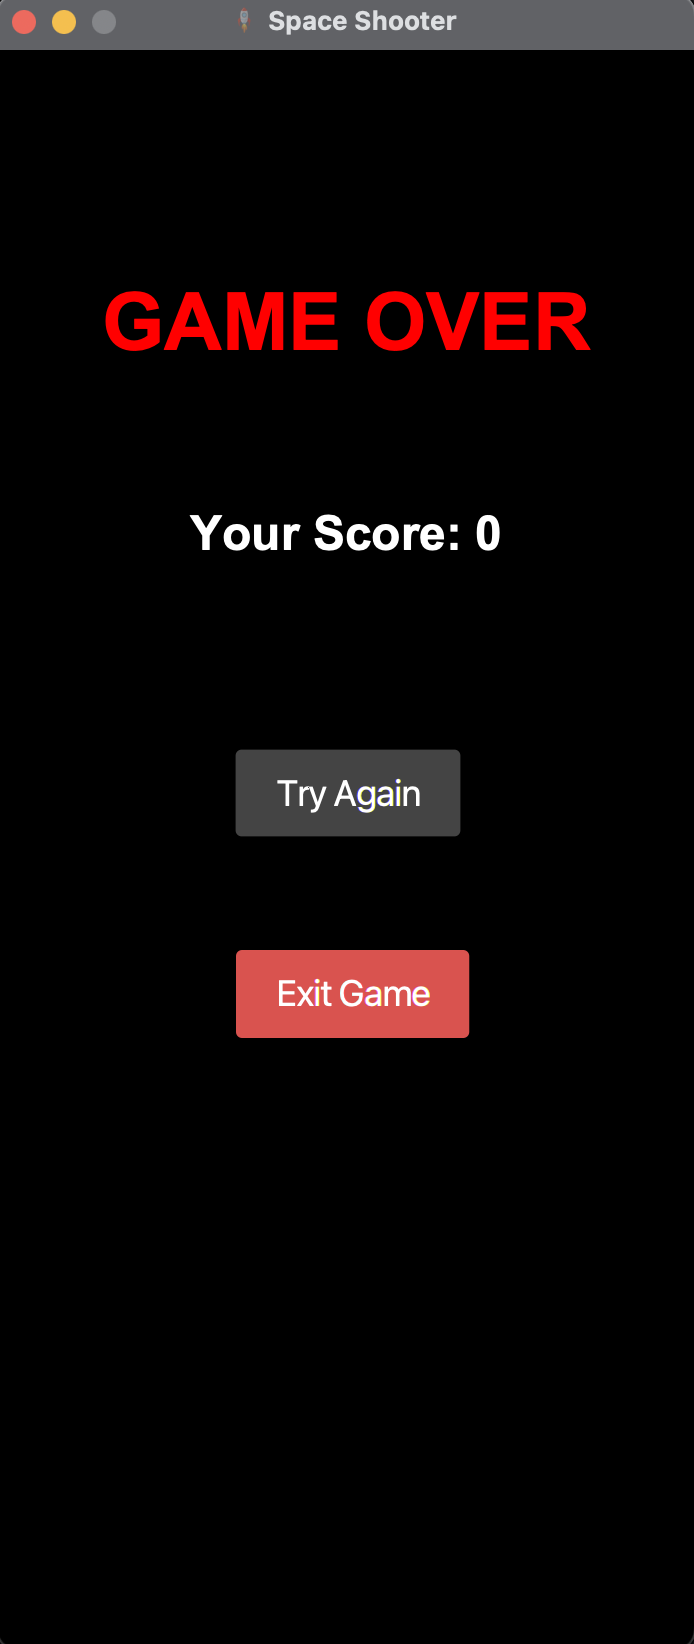
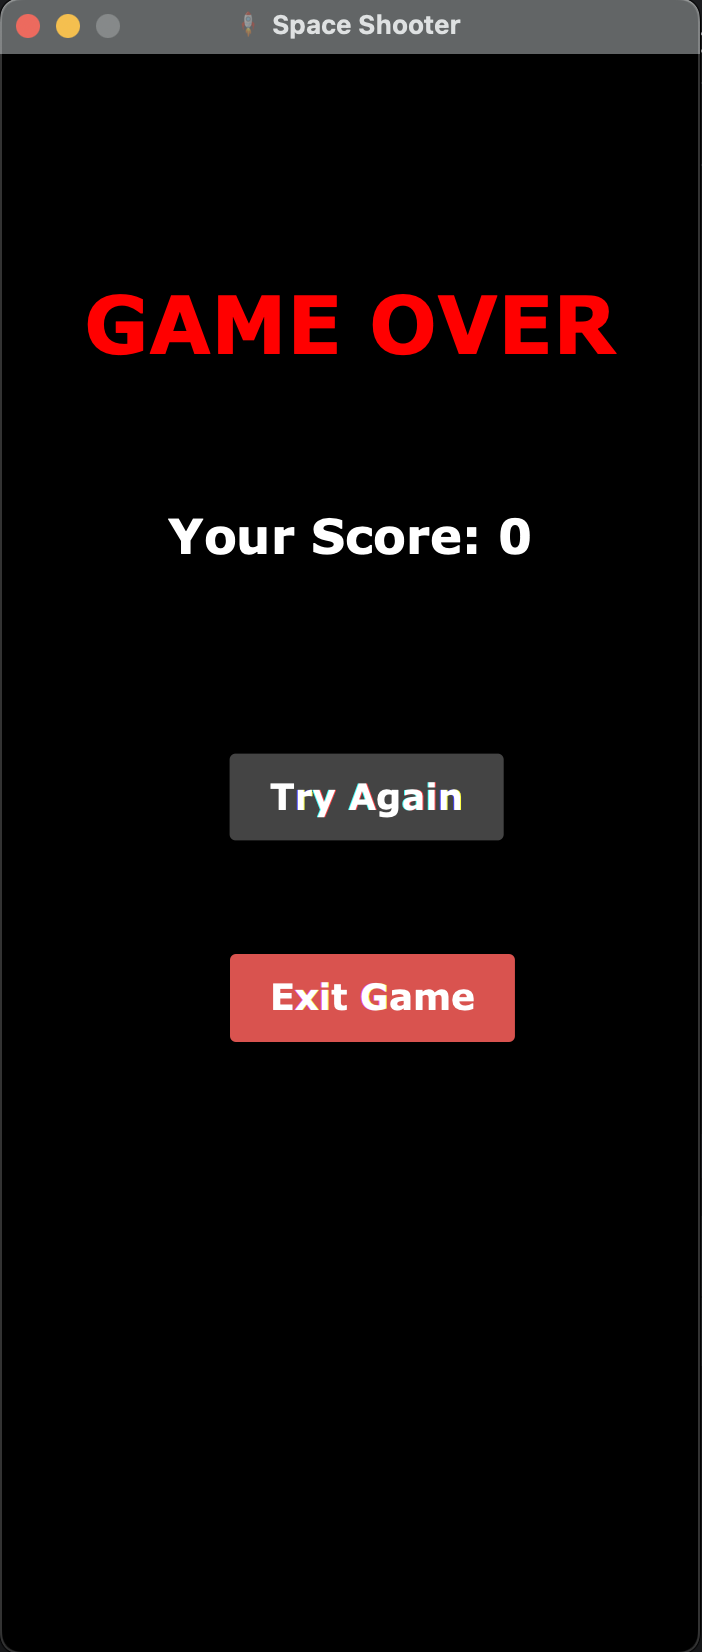
Final: Game working

diff --git a/src/main/java/com/example/spaceshootergamejavafx/SpaceShooter.java b/src/main/java/com/example/spaceshootergamejavafx/SpaceShooter.java
@@ -108,14 +108,16 @@ public class SpaceShooter extends Application {
     Canvas canvas = new Canvas(WIDTH, HEIGHT);
     scoreLabel.setTranslateX(10);
     scoreLabel.setTranslateY(10);
-    scoreLabel.setTextFill(Color.BLACK);
-    scoreLabel.setFont(Font.font("Arial", FontWeight.BOLD, 18));
+    scoreLabel.setTextFill(Color.WHITE);
+    scoreLabel.setFont(Font.font("Verdana", FontWeight.BOLD, 18));
 
+    root.setStyle("-fx-background-color: black;");
     root.getChildren().addAll(canvas, scoreLabel, lifeLabel);
+
     lifeLabel.setTranslateX(10);
     lifeLabel.setTranslateY(40);
-    lifeLabel.setTextFill(Color.BLACK);
-    lifeLabel.setFont(Font.font("Arial", FontWeight.BOLD, 18));
+    lifeLabel.setTextFill(Color.WHITE);
+    lifeLabel.setFont(Font.font("Verdana", FontWeight.BOLD, 18));
 
     GraphicsContext gc = canvas.getGraphicsContext2D();
     gameObjects.add(player);
@@ -142,6 +144,8 @@ public class SpaceShooter extends Application {
               this.start();
               reset = false;
             }
+
+            gc.setFill(Color.BLACK);
             gc.clearRect(0, 0, WIDTH, HEIGHT);
 
             if (now - lastEnemySpawned > 1_000_000_000) {
@@ -298,7 +302,7 @@ public class SpaceShooter extends Application {
 
     // Game Over Text
     Text gameOverText = new Text("GAME OVER");
-    gameOverText.setFont(Font.font("Arial", FontWeight.BOLD, 40));
+    gameOverText.setFont(Font.font("Verdana", FontWeight.BOLD, 40));
     gameOverText.setFill(Color.RED);
     gameOverText.setX((WIDTH - gameOverText.getLayoutBounds().getWidth()) / 2);
     gameOverText.setY(150);
@@ -309,7 +313,7 @@ public class SpaceShooter extends Application {
     }
 
     Text scoreText = new Text("Your Score: " + score);
-    scoreText.setFont(Font.font("Arial", FontWeight.BOLD, 24));
+    scoreText.setFont(Font.font("Verdana", FontWeight.BOLD, 24));
     scoreText.setFill(Color.WHITE);
     scoreText.setX((WIDTH - scoreText.getLayoutBounds().getWidth()) / 2);
     scoreText.setY(250);
@@ -318,22 +322,22 @@ public class SpaceShooter extends Application {
     Button tryAgainButton = new Button("Try Again");
     tryAgainButton.setStyle(
         "-fx-background-color: #444; -fx-text-fill: white; -fx-font-size: 18; "
-            + "-fx-font-weight: bold; -fx-padding: 10 20;");
+            + "-fx-font-weight: bold; -fx-padding: 10 20; -fx-font-family: 'Verdana';");
     tryAgainButton.setOnMouseEntered(
         event -> {
           tryAgainButton.setStyle(
               "-fx-background-color: white; -fx-text-fill: black; -fx-font-size: 18; "
-                  + "-fx-font-weight: bold; -fx-padding: 10 20;");
+                  + "-fx-font-weight: bold; -fx-padding: 10 20; -fx-font-family: 'Verdana';");
           tryAgainButton.setEffect(new Glow(0.5));
         });
     tryAgainButton.setOnMouseExited(
         event -> {
           tryAgainButton.setStyle(
               "-fx-background-color: #444; -fx-text-fill: white; -fx-font-size: 18; "
-                  + "-fx-font-weight: bold; -fx-padding: 10 20;");
+                  + "-fx-font-weight: bold; -fx-padding: 10 20; -fx-font-family: 'Verdana';");
           tryAgainButton.setEffect(null);
         });
-    tryAgainButton.setLayoutX(120);
+    tryAgainButton.setLayoutX(115);
     tryAgainButton.setLayoutY(350);
     tryAgainButton.setOnAction(event -> restartGame());
 
@@ -341,22 +345,22 @@ public class SpaceShooter extends Application {
     Button exitButton = new Button("Exit Game");
     exitButton.setStyle(
         "-fx-background-color: #d9534f; -fx-text-fill: white; -fx-font-size: 18; "
-            + "-fx-font-weight: bold; -fx-padding: 10 20;");
+            + "-fx-font-weight: bold; -fx-padding: 10 20; -fx-font-family: 'Verdana';");
     exitButton.setOnMouseEntered(
         event -> {
           exitButton.setStyle(
               "-fx-background-color: white; -fx-text-fill: red; -fx-font-size: 18; "
-                  + "-fx-font-weight: bold; -fx-padding: 10 20;");
+                  + "-fx-font-weight: bold; -fx-padding: 10 20; -fx-font-family: 'Verdana';");
           exitButton.setEffect(new Glow(0.5));
         });
     exitButton.setOnMouseExited(
         event -> {
           exitButton.setStyle(
               "-fx-background-color: #d9534f; -fx-text-fill: white; -fx-font-size: 18; "
-                  + "-fx-font-weight: bold; -fx-padding: 10 20;");
+                  + "-fx-font-weight: bold; -fx-padding: 10 20; -fx-font-family: 'Verdana';");
           exitButton.setEffect(null);
         });
-    exitButton.setLayoutX(120);
+    exitButton.setLayoutX(115);
     exitButton.setLayoutY(450);
     exitButton.setOnAction(event -> System.exit(0));
 
@@ -465,7 +469,7 @@ public class SpaceShooter extends Application {
     Pane menuPane = new Pane();
     menuPane.setStyle(
         "-fx-background-color: linear-gradient(to bottom, #1e3c72, #2a5298);"); // Gradient
-                                                                                // background
+    // background
 
     // Styled title
     Text welcomeText = new Text("Welcome to\nSpace Shooter!");
@@ -515,7 +519,8 @@ public class SpaceShooter extends Application {
             + "-fx-border-radius: 20;"
             + "-fx-background-radius: 20;"
             + "-fx-border-color: #ffffff;"
-            + "-fx-border-width: 2;");
+            + "-fx-border-width: 2;"
+            + "-fx-font-family: 'Verdana';");
     button.setOnMouseEntered(
         event -> {
           button.setStyle(
@@ -527,7 +532,8 @@ public class SpaceShooter extends Application {
                   + "-fx-border-radius: 20;"
                   + "-fx-background-radius: 20;"
                   + "-fx-border-color: yellow;"
-                  + "-fx-border-width: 2;");
+                  + "-fx-border-width: 2;"
+                  + "-fx-font-family: 'Verdana';");
           button.setEffect(new Glow(0.5));
         });
     button.setOnMouseExited(
@@ -541,7 +547,8 @@ public class SpaceShooter extends Application {
                   + "-fx-border-radius: 20;"
                   + "-fx-background-radius: 20;"
                   + "-fx-border-color: #ffffff;"
-                  + "-fx-border-width: 2;");
+                  + "-fx-border-width: 2;"
+                  + "-fx-font-family: 'Verdana';");
           button.setEffect(null);
         });
     return button;
@@ -573,7 +580,7 @@ public class SpaceShooter extends Application {
    */
   private void showTempMessage(String message, double x, double y, double duration) {
     Text tempMessage = new Text(message);
-    tempMessage.setFont(Font.font("Arial", FontWeight.BOLD, 18));
+    tempMessage.setFont(Font.font("Verdana", FontWeight.BOLD, 18));
     tempMessage.setFill(Color.RED);
     tempMessage.setX(x);
     tempMessage.setY(y);

diff --git a/README.md b/README.md
@@ -34,6 +34,12 @@ Space Shooter is a simple, lightweight but engaging JavaFX-based game where play
     <img src="img/gameplay.png" alt="Space Shooter Game Interface" width="60%"/>
 </p>
 
+### Instructions
+
+<p align="center" style="cursor: pointer">
+    <img src="img/instructions.png" alt="Space Shooter Game Instructions" width="60%"/>
+</p>
+
 ### Losing Screen
 
 <p align="center" style="cursor: pointer">
